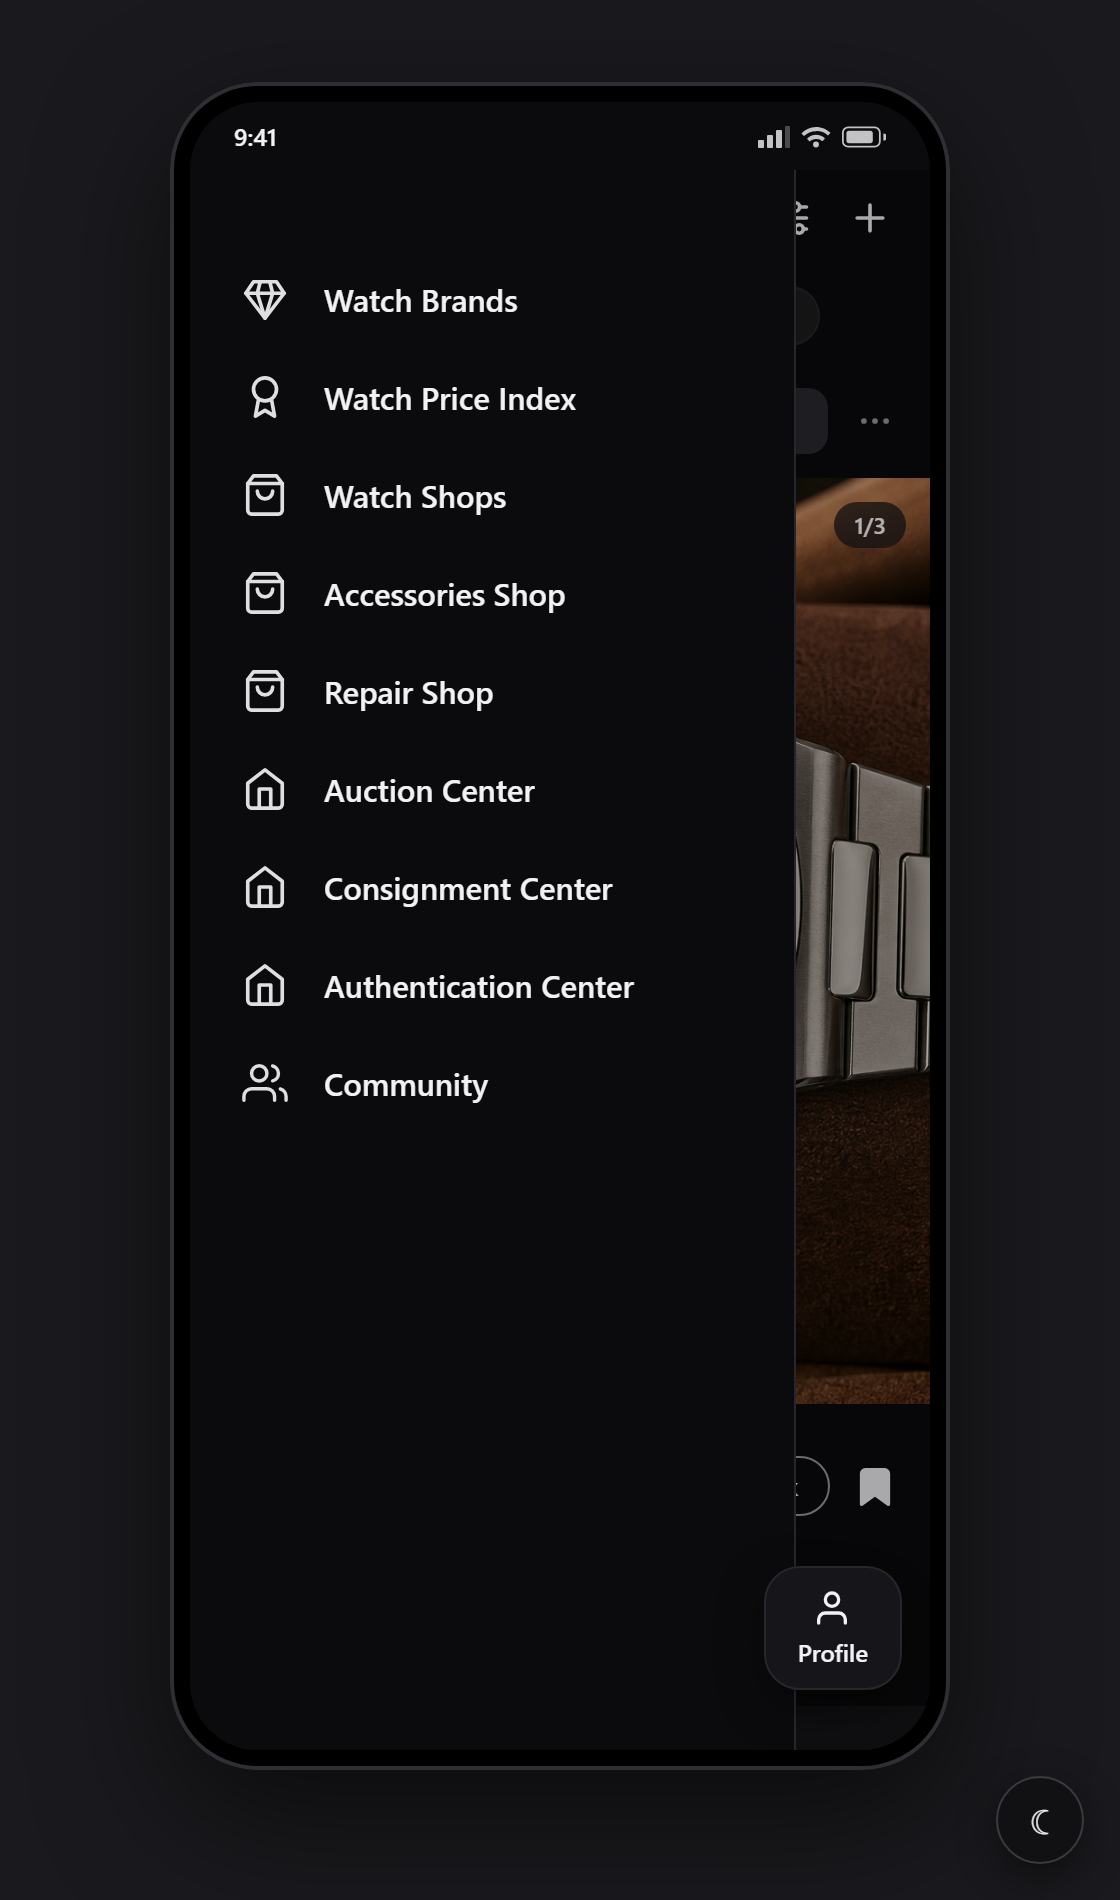
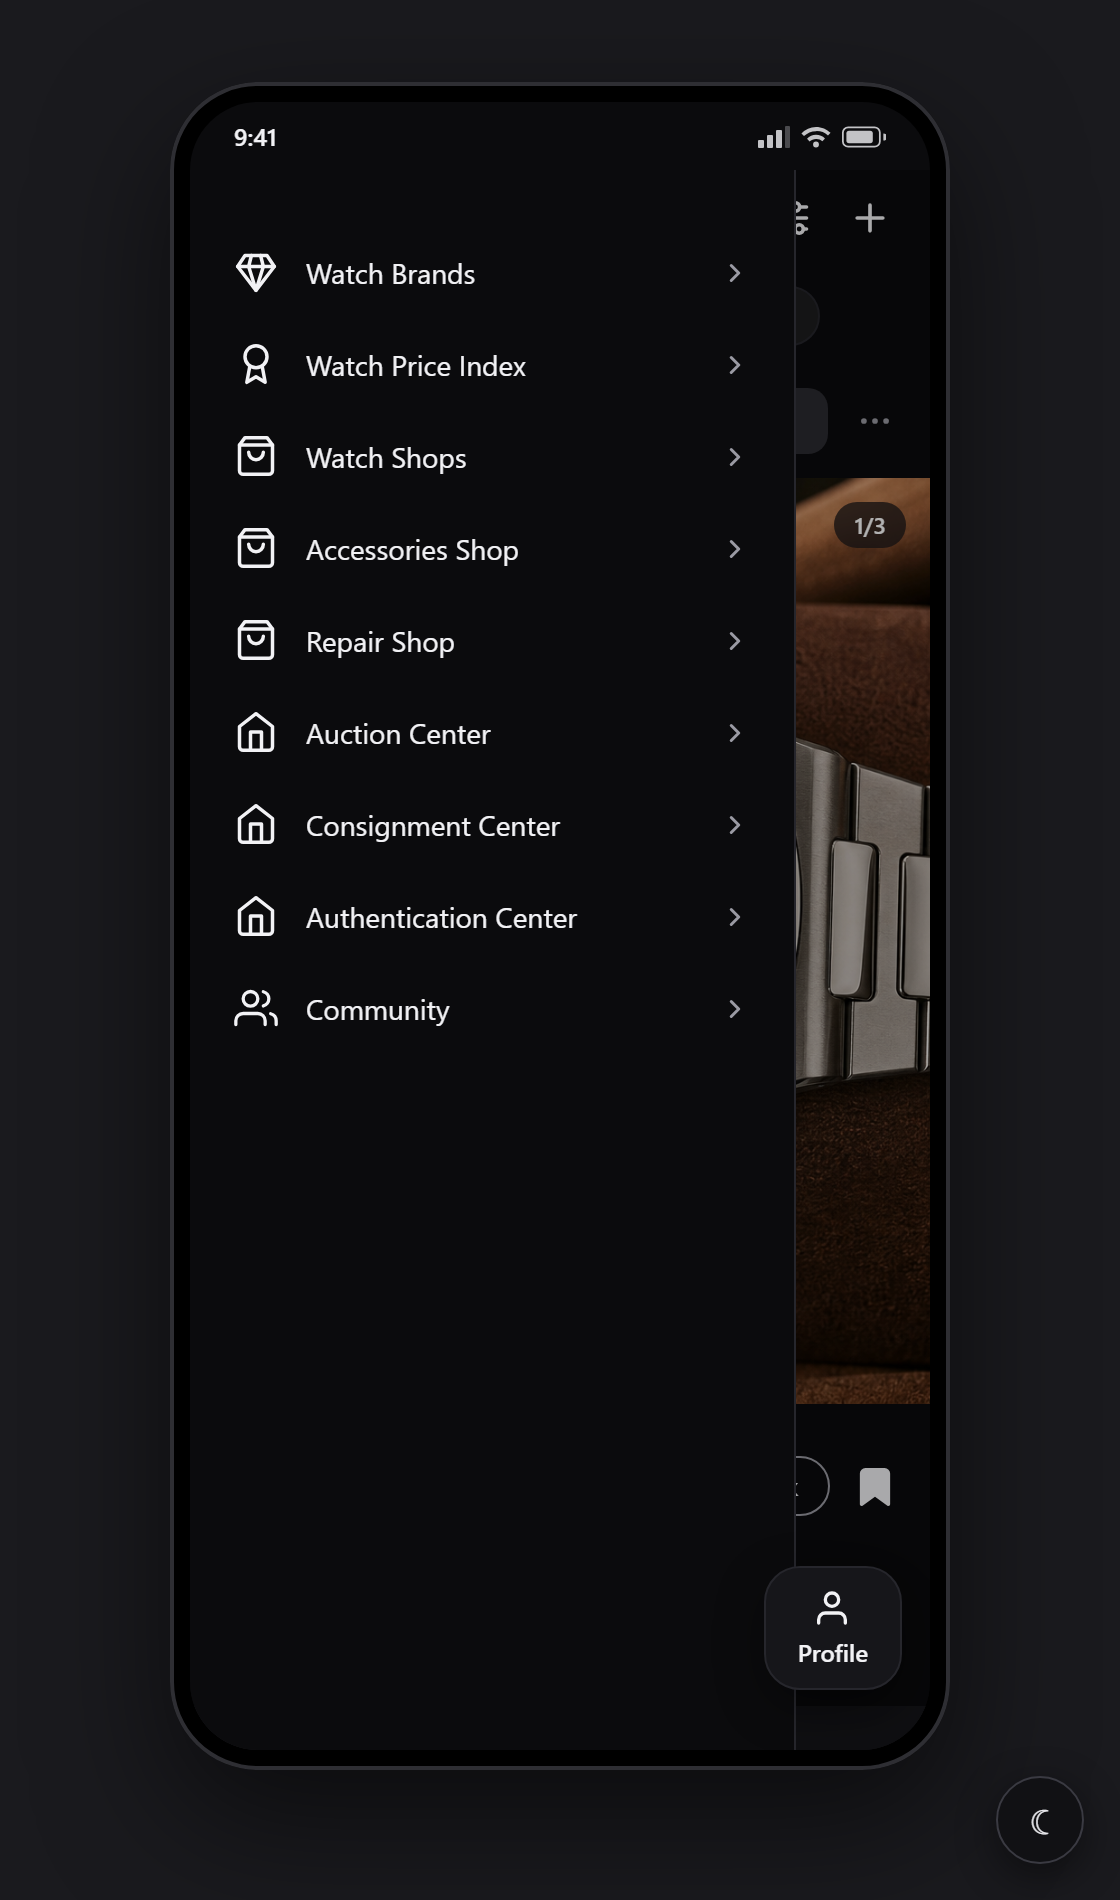
fix(NAV-001): match IG settings row style — 14px regular labels, trailing chevrons, tighter row padding
Generated with [Devin](https://devin.ai)

Changed region(s): [[0.2812, 0.1242, 0.5625, 0.59], [0.2188, 0.1242, 0.25, 0.59]]

diff --git a/Prototypes/fo-flow/index.html b/Prototypes/fo-flow/index.html
@@ -289,17 +289,18 @@
     display: flex; flex-direction: column;
   }
   .screen.hb-open .hb-panel { transform: none; }
-  .hb-list { flex: 1; padding: 40px 0 12px; overflow-y: auto; scrollbar-width: none; }
+  .hb-list { flex: 1; padding: 28px 0 12px; overflow-y: auto; scrollbar-width: none; }
   .hb-list::-webkit-scrollbar { display: none; }
   .hb-item {
-    display: flex; align-items: center; gap: 18px;
-    width: 100%; padding: 13px 26px;
+    display: flex; align-items: center; gap: 14px;
+    width: 100%; padding: 12px 22px;
     background: none; border: none; cursor: pointer;
-    font-family: var(--font-main); font-size: 15.5px; font-weight: 500;
+    font-family: var(--font-main); font-size: 14px; font-weight: 400;
     color: var(--text); text-align: left;
   }
   .hb-item:hover { background: var(--chip-bg); }
-  .hb-item svg { display: block; flex-shrink: 0; opacity: .92; }
+  .hb-item svg { display: block; flex-shrink: 0; }
+  .hb-item .hb-chev { margin-left: auto; color: var(--muted); display: flex; }
   .hb-profile {
     position: absolute; right: 14px; bottom: 30px;
     display: flex; flex-direction: column; align-items: center; gap: 4px;
@@ -5578,15 +5579,15 @@ function screenHTML(theme, variant) {
       <div class="hb-scrim"></div>
       <div class="hb-panel">
         <div class="hb-list">
-          <button class="hb-item">${I.gem(23)}<span>Watch Brands</span></button>
-          <button class="hb-item">${I.award(23)}<span>Watch Price Index</span></button>
-          <button class="hb-item">${I.bag(23)}<span>Watch Shops</span></button>
-          <button class="hb-item">${I.bag(23)}<span>Accessories Shop</span></button>
-          <button class="hb-item">${I.bag(23)}<span>Repair Shop</span></button>
-          <button class="hb-item">${I.home(23)}<span>Auction Center</span></button>
-          <button class="hb-item">${I.home(23)}<span>Consignment Center</span></button>
-          <button class="hb-item">${I.home(23)}<span>Authentication Center</span></button>
-          <button class="hb-item">${I.users(23)}<span>Community</span></button>
+          <button class="hb-item">${I.gem(22)}<span>Watch Brands</span><span class="hb-chev">${I.chevR(15)}</span></button>
+          <button class="hb-item">${I.award(22)}<span>Watch Price Index</span><span class="hb-chev">${I.chevR(15)}</span></button>
+          <button class="hb-item">${I.bag(22)}<span>Watch Shops</span><span class="hb-chev">${I.chevR(15)}</span></button>
+          <button class="hb-item">${I.bag(22)}<span>Accessories Shop</span><span class="hb-chev">${I.chevR(15)}</span></button>
+          <button class="hb-item">${I.bag(22)}<span>Repair Shop</span><span class="hb-chev">${I.chevR(15)}</span></button>
+          <button class="hb-item">${I.home(22)}<span>Auction Center</span><span class="hb-chev">${I.chevR(15)}</span></button>
+          <button class="hb-item">${I.home(22)}<span>Consignment Center</span><span class="hb-chev">${I.chevR(15)}</span></button>
+          <button class="hb-item">${I.home(22)}<span>Authentication Center</span><span class="hb-chev">${I.chevR(15)}</span></button>
+          <button class="hb-item">${I.users(22)}<span>Community</span><span class="hb-chev">${I.chevR(15)}</span></button>
         </div>
       </div>
       <button class="hb-profile">${I.navUser(20)}<span>Profile</span></button>
